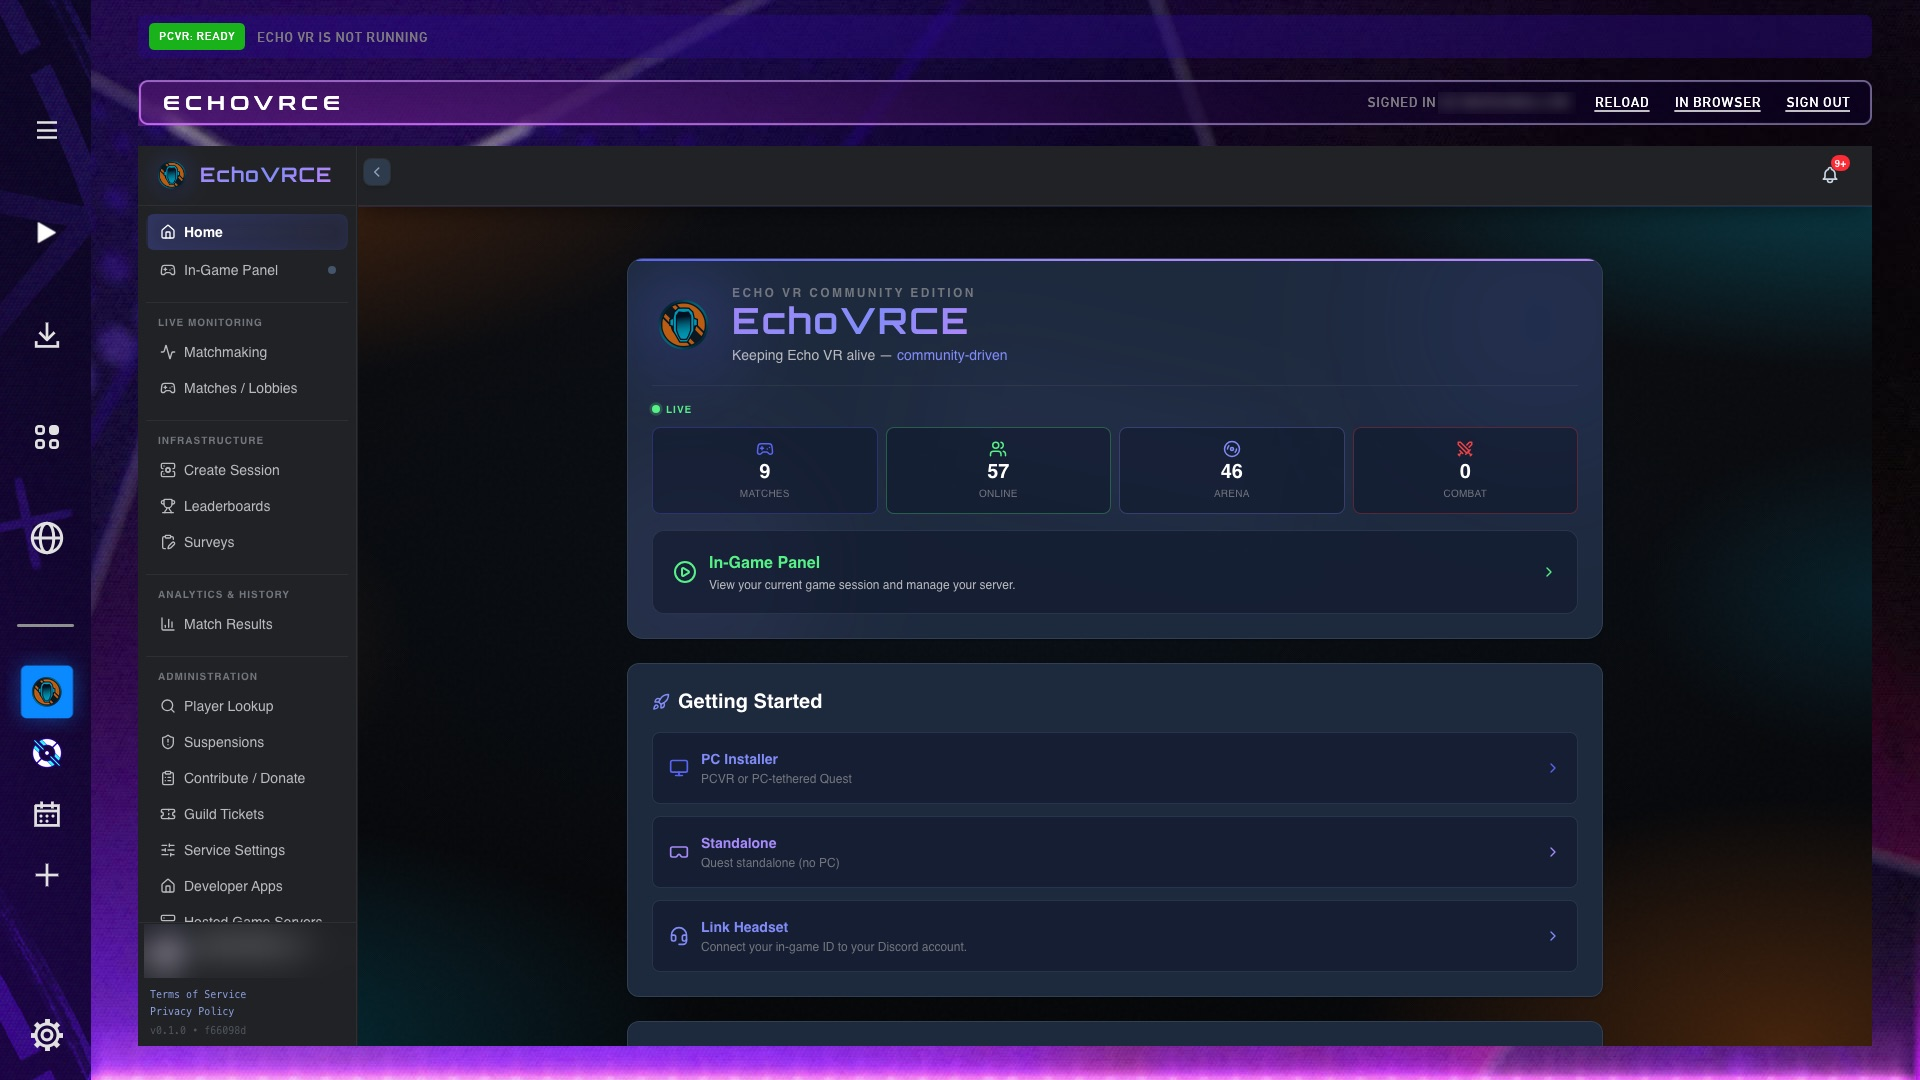
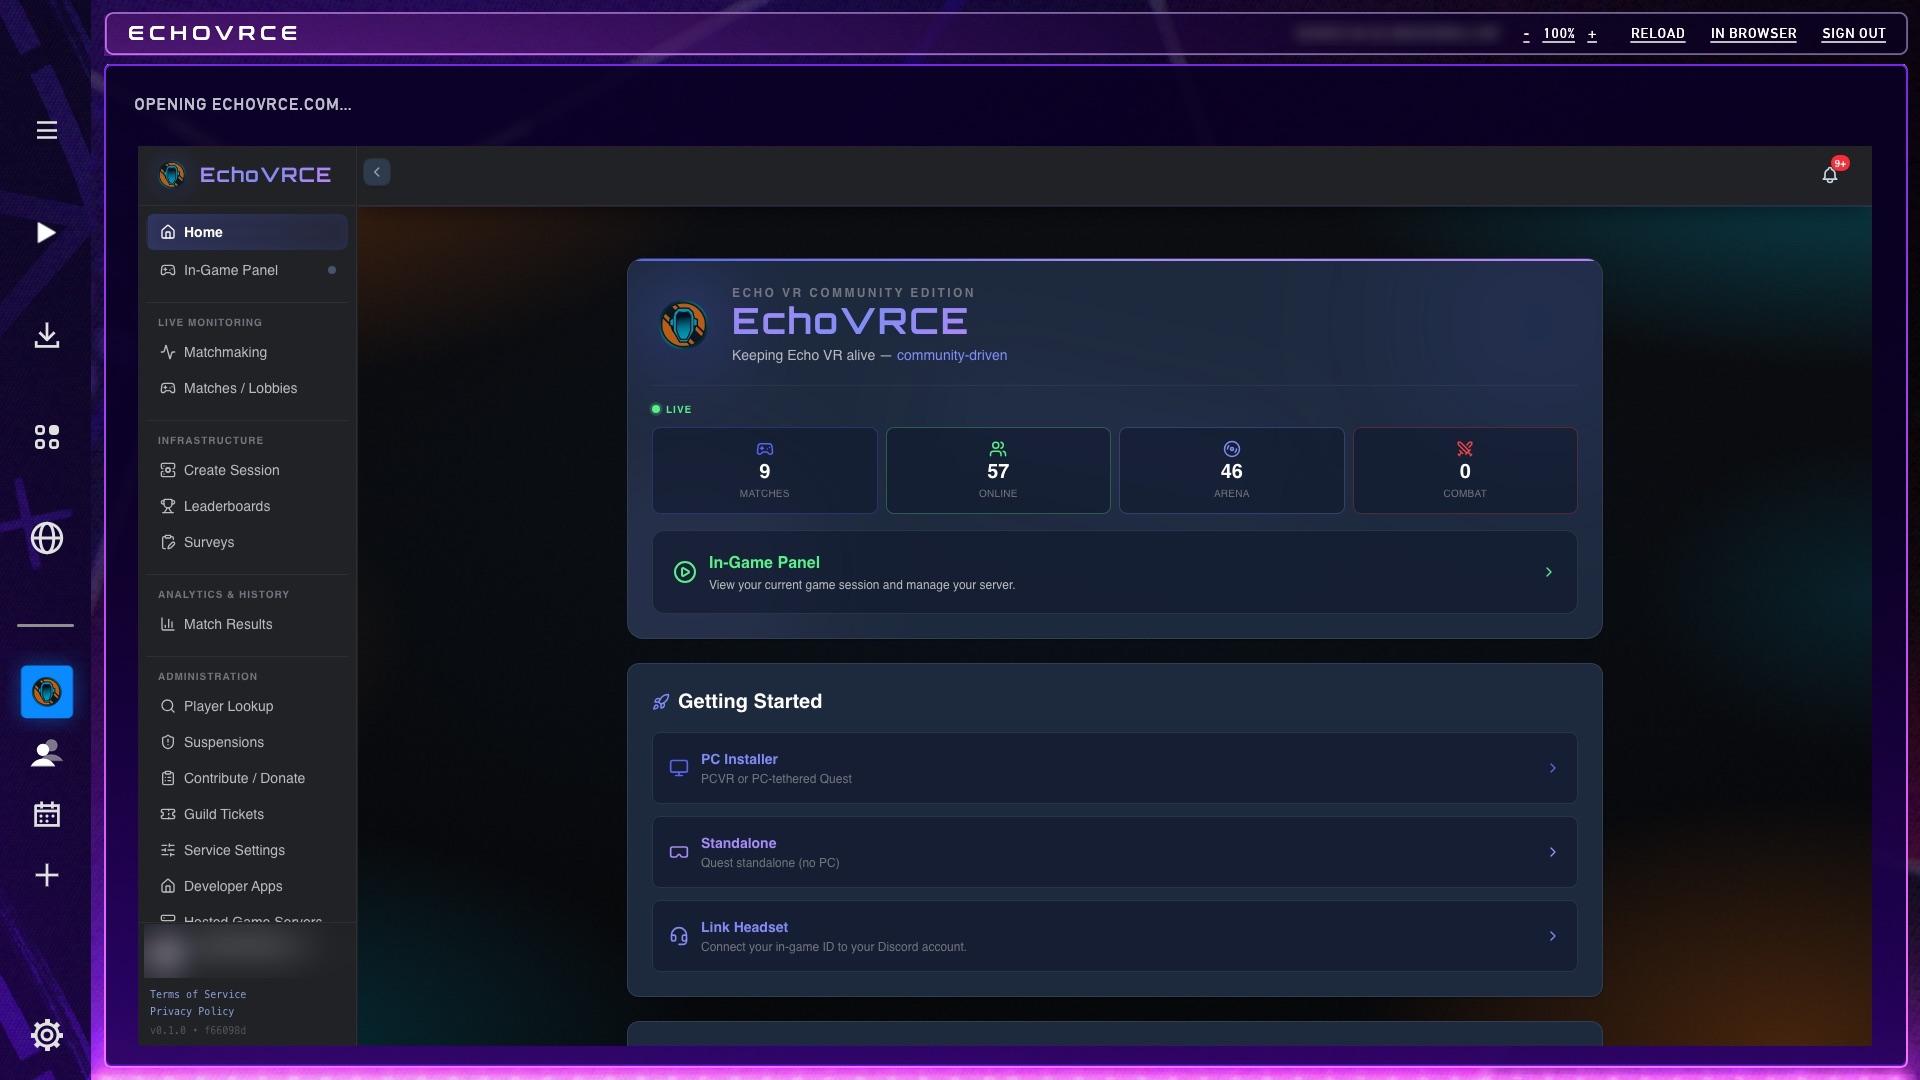
README screenshots for 0.11.4, and all of them in one picture

Changed region(s): [[0.0312, 0.0, 1.0, 0.3972], [0.0, 0.2139, 1.0, 1.0], [0.0312, 0.4278, 0.0938, 0.5194]]

diff --git a/README.md b/README.md
@@ -20,6 +20,8 @@ Help and news are on the [Echo VR Lounge Discord](https://discord.com/invite/ech
 
 Players, matches and numbers in the pictures are made up; the mods and plugins are the real ones. The EchoVRCE page is the real site, with the account blurred.
 
+All ten in one picture, one below the other: [docs/screenshots/00-all.jpg](docs/screenshots/00-all.jpg).
+
 ## Match links
 
 The launcher joins matches from `spark://` and `https://echo.taxi/spark://…` links: paste one
